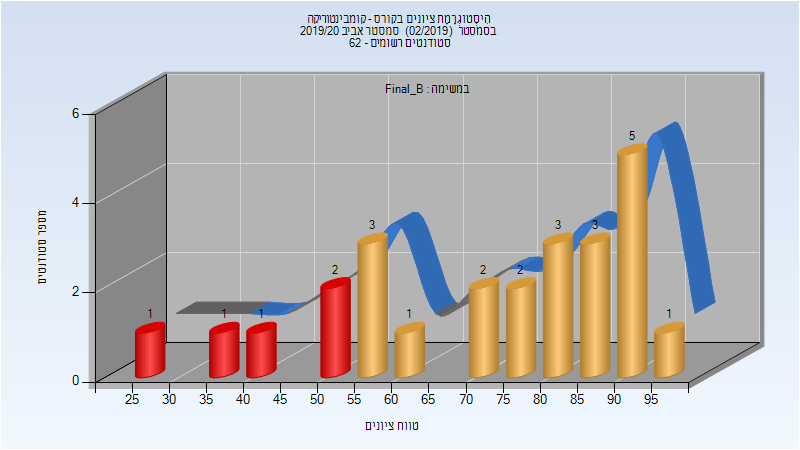
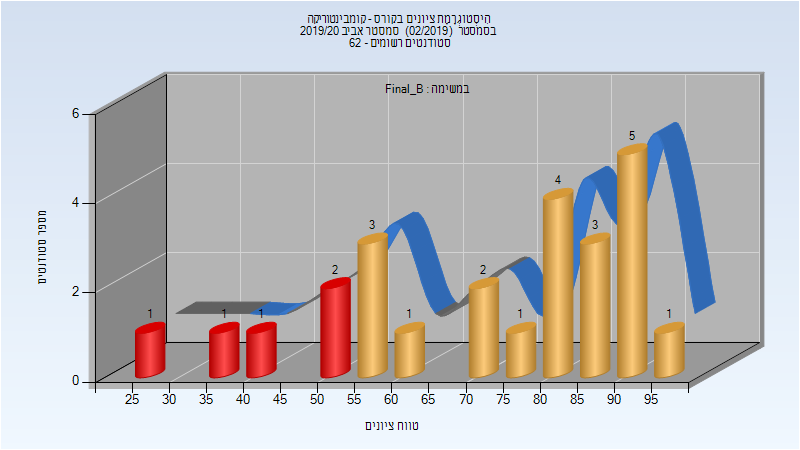
Deploy michael-maltsev/technion-histograms to github.com/michael-maltsev/technion-histograms.git:gh-pages

Changed region(s): [[0.6562, 0.3733, 0.7812, 0.56], [0.625, 0.56, 0.6875, 0.7467], [0.7188, 0.56, 0.75, 0.6222]]

diff --git a/324965/index.html b/324965/index.html
@@ -173,15 +173,15 @@
 <td>סגל מנהלי - עם הרשאות מרצה אחראי</td>
 </tr>
 <tr>
+<td>איסמן ליסה</td>
+<td>סגל מנהלי - עם הרשאות מרצה אחראי</td>
+</tr>
+<tr>
 <td>הראל אילנה</td>
 <td>סגל מנהלי - עם הרשאות מרצה אחראי</td>
 </tr>
 <tr>
 <td>בן ענת רוחמה</td>
-<td>סגל מנהלי - עם הרשאות מרצה אחראי</td>
-</tr>
-<tr>
-<td>איסמן ליסה</td>
 <td>סגל מנהלי - עם הרשאות מרצה אחראי</td>
 </tr>
 </tbody>

diff --git a/104286/index.html b/104286/index.html
@@ -1113,8 +1113,8 @@
 <td>80</td>
 <td>25</td>
 <td>96</td>
-<td>72.2</td>
-<td>79</td>
+<td>72.32</td>
+<td>80</td>
 </tr>
 </tbody>
 </table>
@@ -1134,13 +1134,13 @@
 </thead>
 <tbody>
 <tr>
-<td>43</td>
-<td>35/8</td>
-<td>81</td>
-<td>26</td>
+<td>53</td>
+<td>48/5</td>
+<td>91</td>
+<td>25</td>
 <td>99</td>
-<td>68.558</td>
-<td>71</td>
+<td>73.66</td>
+<td>77</td>
 </tr>
 </tbody>
 </table>

diff --git a/044102/index.html b/044102/index.html
@@ -726,8 +726,8 @@
 </thead>
 <tbody>
 <tr>
-<td>738</td>
-<td>716/22</td>
+<td>737</td>
+<td>715/22</td>
 <td>97</td>
 <td>0</td>
 <td>0</td>

diff --git a/104286/README.md b/104286/README.md
@@ -351,7 +351,7 @@
 
 | סטודנטים | עברו/נכשלו | אחוז עוברים | ציון מינימלי | ציון מקסימלי | ממוצע | חציון |
 | ---- | ---- | ---- | ---- | ---- | ---- | ---- |
-| 25 | 20/5 | 80 | 25 | 96 | 72.2 | 79 |
+| 25 | 20/5 | 80 | 25 | 96 | 72.32 | 80 |
 
 ### סופי
 
@@ -359,5 +359,5 @@
 
 | סטודנטים | עברו/נכשלו | אחוז עוברים | ציון מינימלי | ציון מקסימלי | ממוצע | חציון |
 | ---- | ---- | ---- | ---- | ---- | ---- | ---- |
-| 43 | 35/8 | 81 | 26 | 99 | 68.558 | 71 |
+| 53 | 48/5 | 91 | 25 | 99 | 73.66 | 77 |
 

diff --git a/324965/README.md b/324965/README.md
@@ -50,9 +50,9 @@
 | ---- | ---- |
 | נדל דניאל | מרצה - אחראי מקצוע |
 | בורנשטיין יעל | סגל מנהלי - עם הרשאות מרצה אחראי |
+| איסמן ליסה | סגל מנהלי - עם הרשאות מרצה אחראי |
 | הראל אילנה | סגל מנהלי - עם הרשאות מרצה אחראי |
 | בן ענת רוחמה | סגל מנהלי - עם הרשאות מרצה אחראי |
-| איסמן ליסה | סגל מנהלי - עם הרשאות מרצה אחראי |
 
 ### סופי מועד א'
 

diff --git a/044102/README.md b/044102/README.md
@@ -236,5 +236,5 @@
 
 | סטודנטים | עברו/נכשלו | אחוז עוברים | ציון מינימלי | ציון מקסימלי | ממוצע | חציון |
 | ---- | ---- | ---- | ---- | ---- | ---- | ---- |
-| 738 | 716/22 | 97 | 0 | 0 | 0 | 0 |
+| 737 | 715/22 | 97 | 0 | 0 | 0 | 0 |
 
